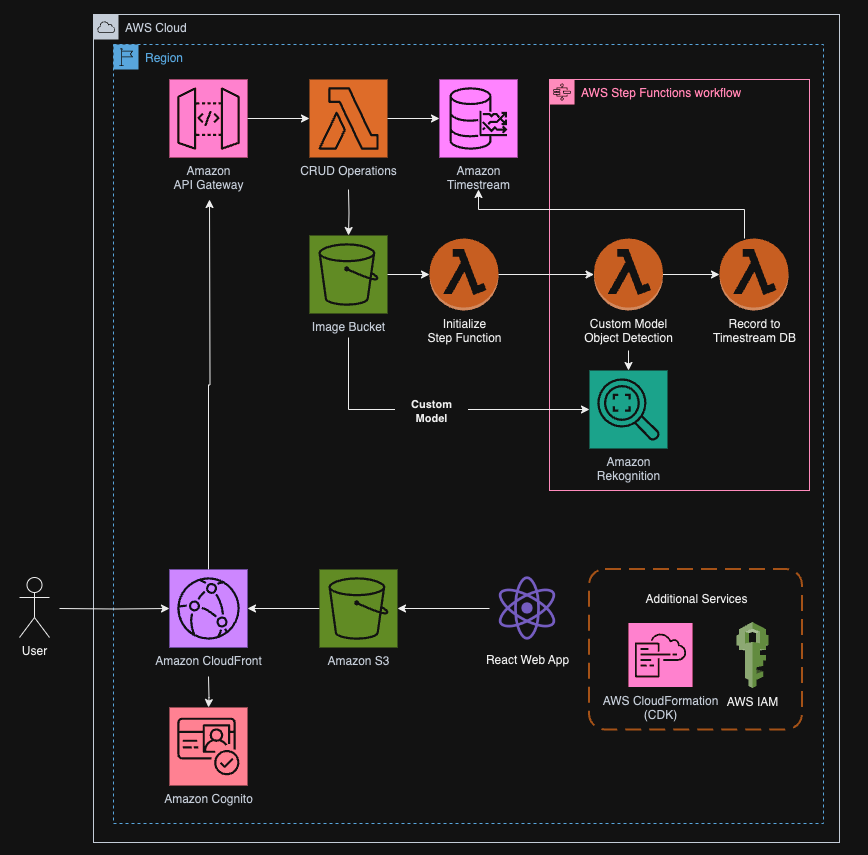
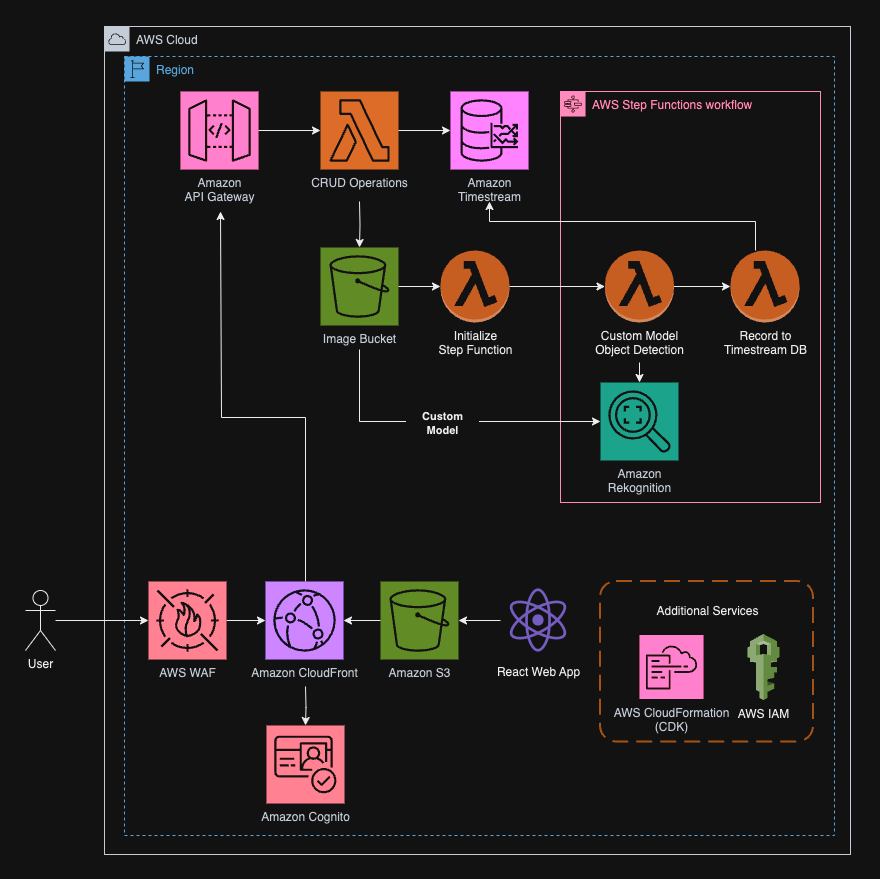
feat: WAF implementation

diff --git a/cdk/bin/cdk.ts b/cdk/bin/cdk.ts
@@ -16,9 +16,17 @@ const envVariables = {
 };
 
 const app = new cdk.App();
-const wafStack = new WebAclStack(app, "WebAclStack", { ...envVariables });
+
+// Must be deployed in us-east-1 due to constraints
+const webAclStack = new WebAclStack(app, "WebAclStack", {
+	...envVariables,
+	env: { region: "us-east-1" },
+	crossRegionReferences: true,
+});
+
 const authStack = new AuthStack(app, "AuthStack", { ...envVariables });
 const storageStack = new StorageStack(app, "StorageStack", { ...envVariables });
+
 new ApiStack(app, "ApiStack", {
 	...envVariables,
 	database: storageStack.database,
@@ -26,8 +34,14 @@ new ApiStack(app, "ApiStack", {
 	userPool: authStack.userPool,
 });
 new ProcessingStack(app, "ProcessingStack", {
+	...envVariables,
 	database: storageStack.database,
 	table: storageStack.table,
-	...envVariables,
+	bucket: storageStack.bucket,
 });
-new WebStack(app, "WebStack", { ...envVariables, webAcl: wafStack.webAcl });
+new WebStack(app, "WebStack", {
+	...envVariables,
+	webAcl: webAclStack.webAcl,
+	env: { region: envVariables.region },
+	crossRegionReferences: true,
+});

diff --git a/cdk/lib/processing-stack.ts b/cdk/lib/processing-stack.ts
@@ -10,14 +10,22 @@ export interface ProcessingStackProps extends cdk.StackProps {
 	region: string;
 	database: cdk.aws_timestream.CfnDatabase;
 	table: cdk.aws_timestream.CfnTable;
+	bucket: cdk.aws_s3.Bucket;
 }
 
 export class ProcessingStack extends cdk.Stack {
 	constructor(scope: Construct, id: string, props: ProcessingStackProps) {
 		super(scope, id, props);
 
-		const { projectName, environment, accountId, region, database, table } =
-			props;
+		const {
+			projectName,
+			environment,
+			accountId,
+			region,
+			database,
+			table,
+			bucket,
+		} = props;
 
 		const imageRekognitionRole = new cdk.aws_iam.Role(
 			this,
@@ -153,7 +161,7 @@ export class ProcessingStack extends cdk.Stack {
 		const s3Bucket = cdk.aws_s3.Bucket.fromBucketName(
 			this,
 			"s3Bucket",
-			`${environment}-${projectName}-${accountId}-${region}-bucket`
+			bucket.bucketName ?? ""
 		);
 		s3Bucket.addEventNotification(
 			cdk.aws_s3.EventType.OBJECT_CREATED,

diff --git a/cdk/lib/web-acl-stack.ts b/cdk/lib/web-acl-stack.ts
@@ -13,19 +13,19 @@ export class WebAclStack extends cdk.Stack {
 	constructor(scope: Construct, id: string, props: WebAclStackProps) {
 		super(scope, id, props);
 
-		const { environment, projectName, region } = props;
+		const { projectName, environment } = props;
 
 		this.webAcl = new cdk.aws_wafv2.CfnWebACL(this, "CDKWebAcl", {
 			defaultAction: {
 				allow: {},
 			},
-			scope: "REGIONAL",
+			scope: "CLOUDFRONT",
 			visibilityConfig: {
 				cloudWatchMetricsEnabled: true,
 				metricName: "MetricForWebAclCDK",
 				sampledRequestsEnabled: true,
 			},
-			name: `${environment}-${projectName}-${region}-webAcl`,
+			name: `${environment}-${projectName}-webAcl`,
 			rules: [
 				{
 					name: "CRSRule",

diff --git a/cdk/lib/web-stack.ts b/cdk/lib/web-stack.ts
@@ -17,7 +17,7 @@ export class WebStack extends cdk.Stack {
 
 		// Create S3 Bucket for our website
 		const siteBucket = new cdk.aws_s3.Bucket(this, "SiteBucket", {
-			bucketName: `${environment}-${projectName}-${accountId}-${region}-webBucket`,
+			bucketName: `${environment}-${projectName}-${accountId}-${region}-site`,
 			websiteIndexDocument: "index.html",
 			websiteErrorDocument: "index.html",
 			publicReadAccess: false,
@@ -67,6 +67,7 @@ export class WebStack extends cdk.Stack {
 						],
 					},
 				],
+				webACLId: webAcl.attrArn,
 			}
 		);
 
